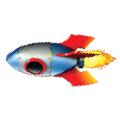
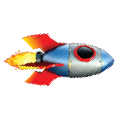
Corrige orientação do foguete

Changed region(s): [[0.025, 0.275, 0.975, 0.725]]

diff --git a/game.html b/game.html
@@ -13,8 +13,8 @@
       var canvas = document.getElementById('minha-tela');
       var context = canvas.getContext('2d');
 
-      var rocketX = 600;
-      var rocketY = 200;
+      var rocketX = 100;
+      var rocketY = 150;
       var rocketWidth = 50;
       var rocketHeight = 50
 
